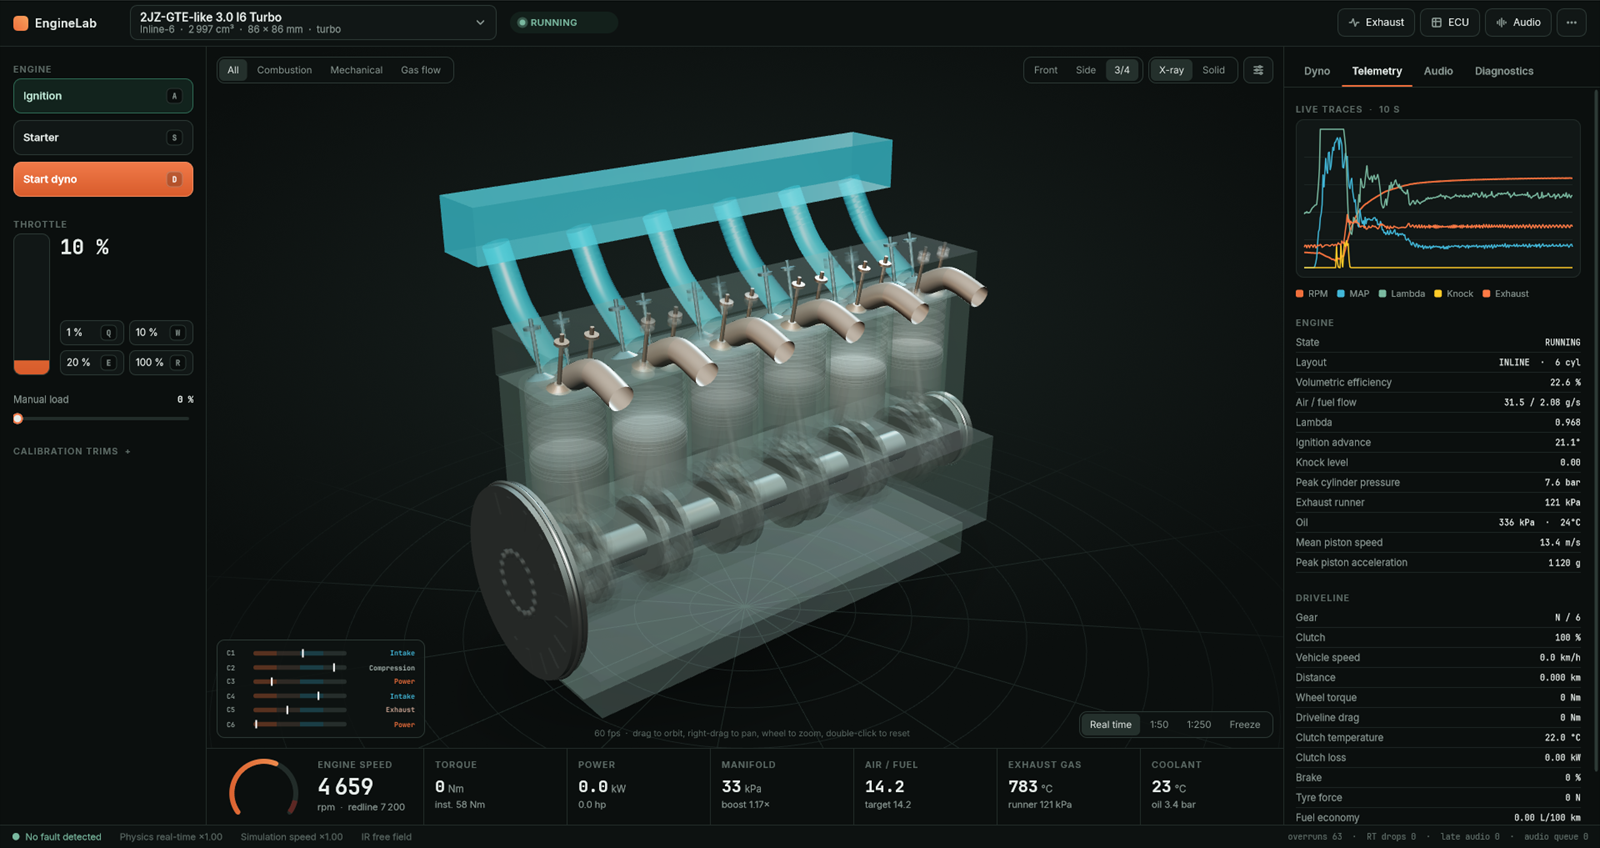
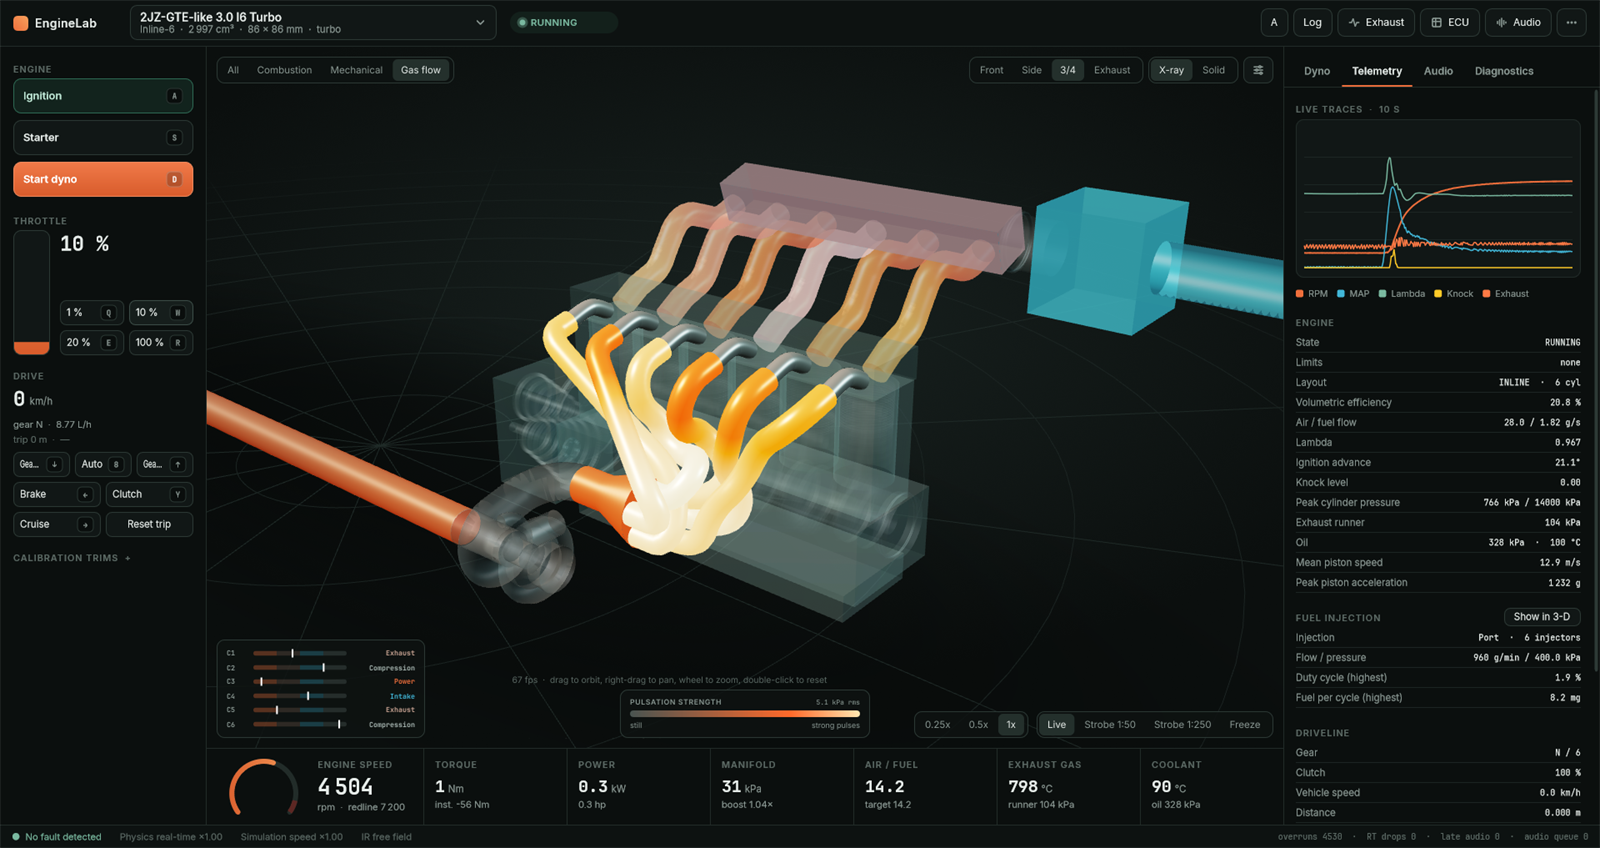
docs: refresh the README screenshot (0.3.1 interface)
The old capture dated from 2026-10-04 and predated the drive panel, the
exhaust view, strobe and gas-flow modes.

diff --git a/README.md b/README.md
@@ -1,4 +1,4 @@
-# EngineLab
+# EngineLab
 
 [![CI](https://github.com/zolaski333/EngineLab/actions/workflows/ci.yml/badge.svg)](https://github.com/zolaski333/EngineLab/actions/workflows/ci.yml)
 [![Release](https://img.shields.io/github/v/release/zolaski333/EngineLab?include_prereleases&sort=semver)](https://github.com/zolaski333/EngineLab/releases)
@@ -15,7 +15,7 @@ tailpipe and radiated to a pair of virtual microphones.
 
 Design an engine, draw its exhaust system, put it on the dyno, listen to it.
 
-![EngineLab main window: the GPU-rendered 3-D engine in X-ray, live gauges and telemetry](docs/media/main-window.png)
+![EngineLab main window: the 2JZ-like turbo six in X-ray with its gas flow shown, live gauges and telemetry](docs/media/main-window.png)
 
 > **Project status: early.** The physics, tooling and real-time pipeline are
 > solid and heavily tested. The sound is not there yet: in blind listening
